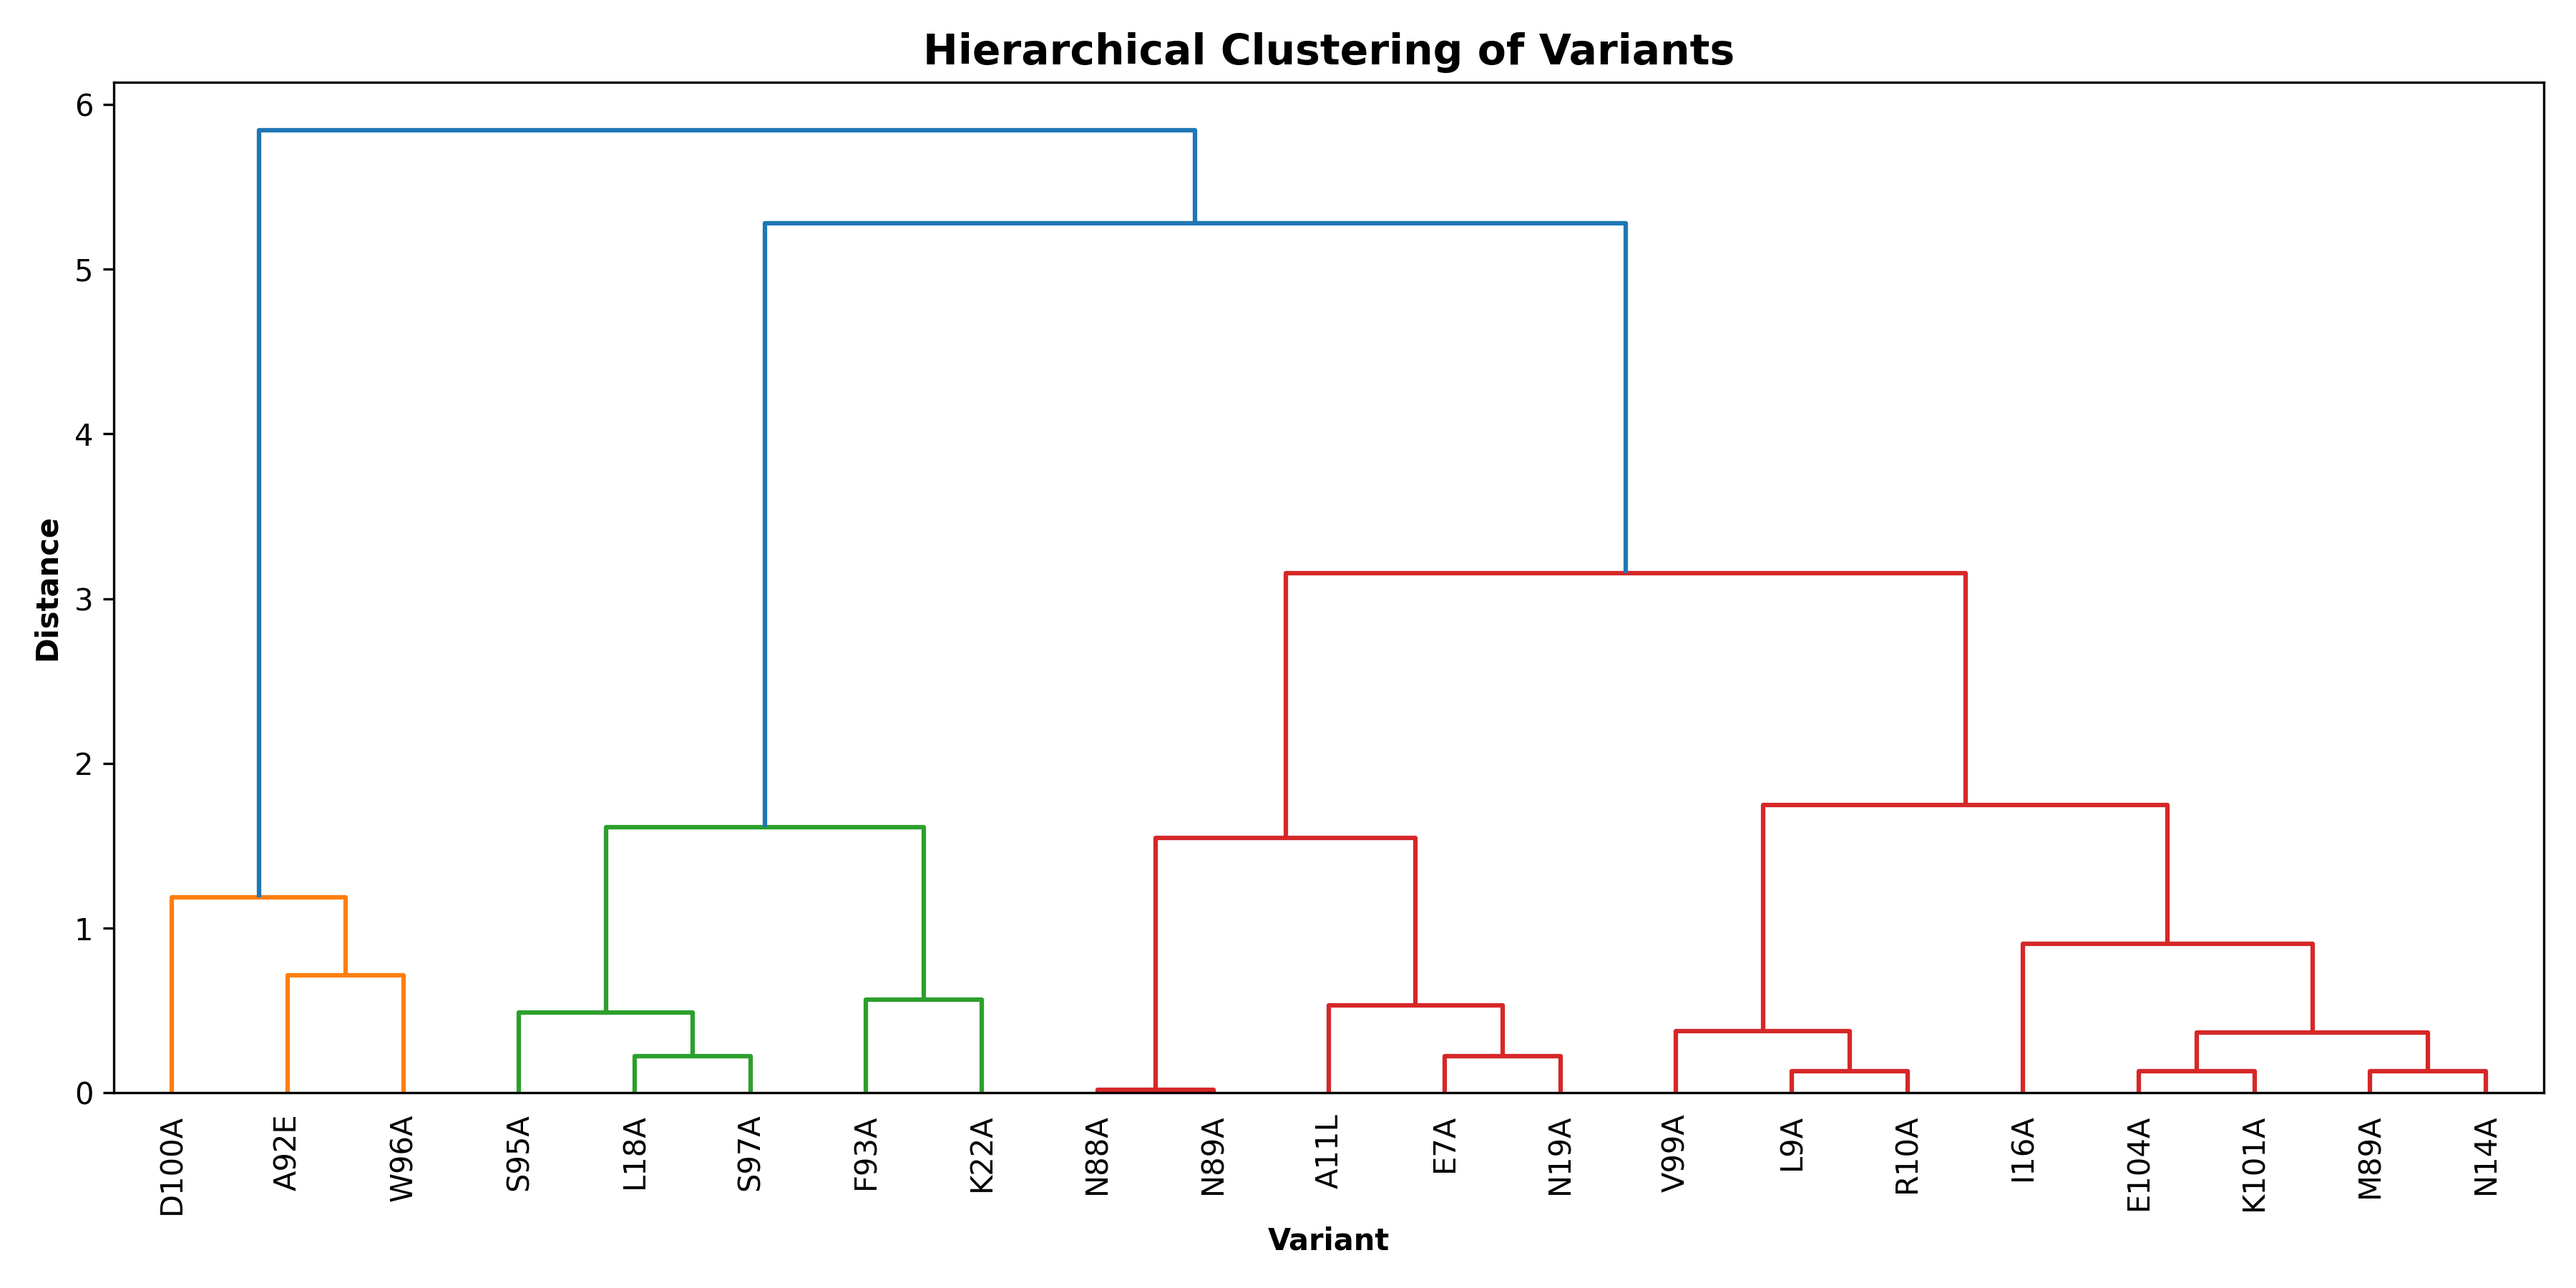
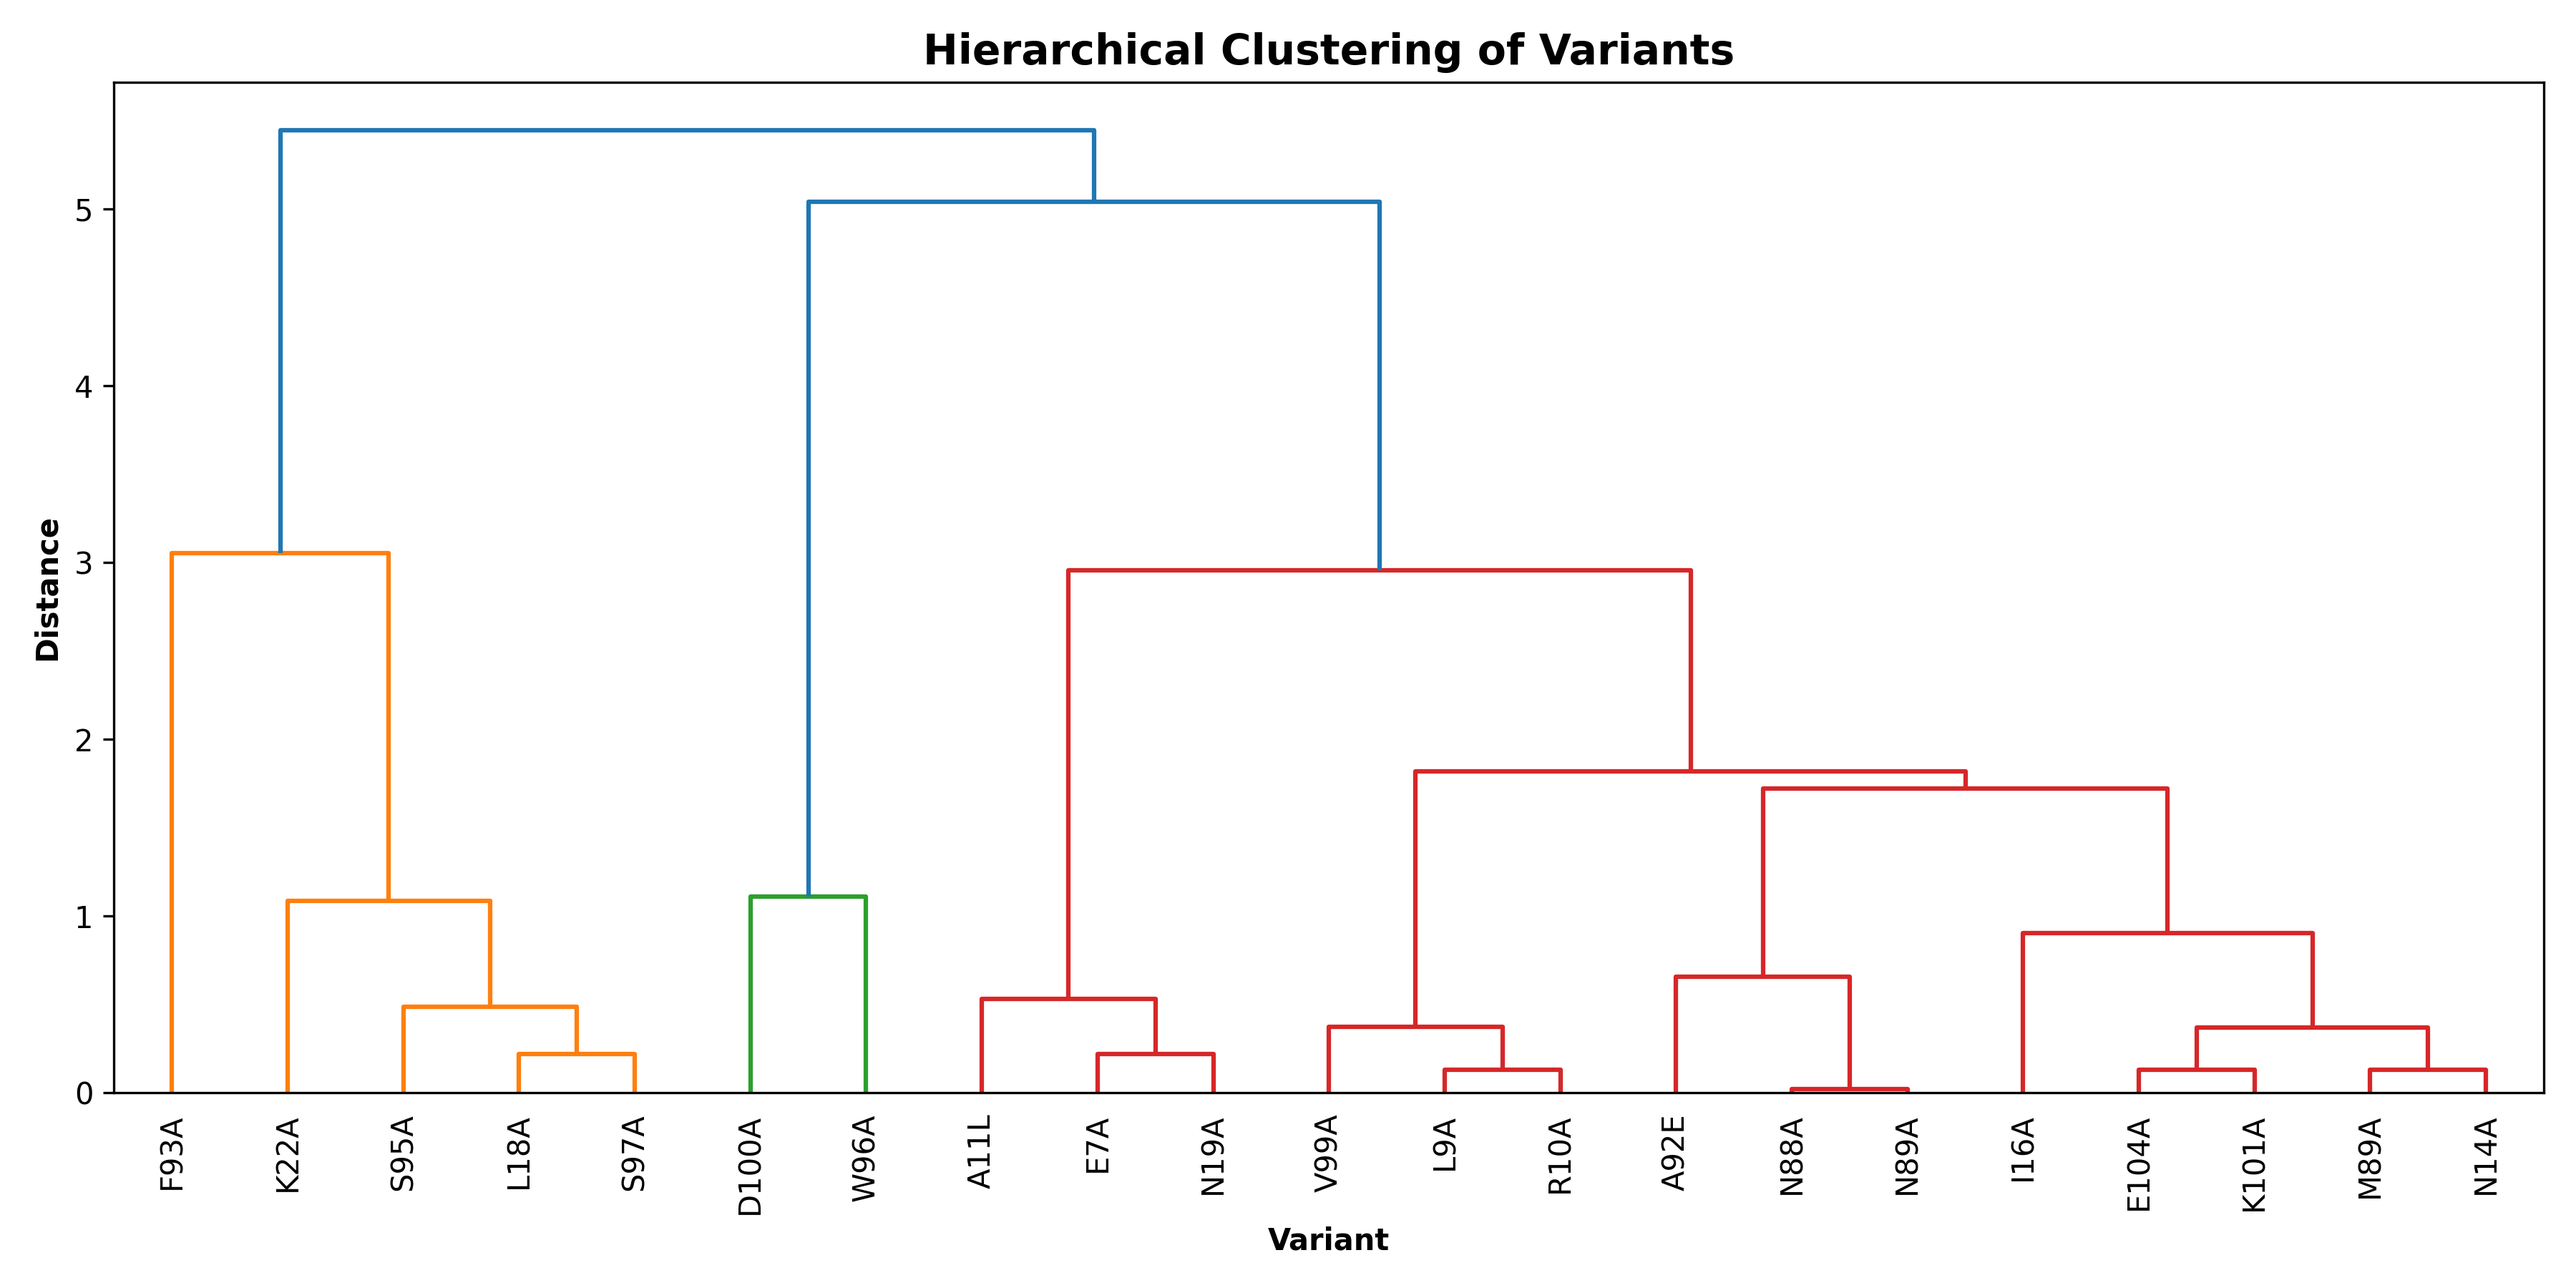
all

diff --git a/analysis/yield.py b/analysis/yield.py
@@ -7,9 +7,9 @@ data = {
     'Catalyst': ['WT', 'W96A', 'E7A', 'A11L', 'L18A', 'N19A', 'K22A', 'N88A', 
                  'M89A', 'A92E', 'F93A', 'S95A', 'S97A', 'D100A', 'V99A', 
                  'I16A', 'N14A', 'L9A', 'R10A', 'K101A', 'E104A', 'na'],
-    'Replicate_a': [17, 5, 17, 17, 16, 17, 14, 14, 13, 7, 14, 14, 17, 4, 19, 13, 16, 18, 16, 12, 11, 0],
-    'Replicate_b': [17, 5, 18, 19, 19, 17, 14, 13, 12, 7, 14, 16, 15, 3, 19, 9, 14, 17, 16, 11, 16, 0],
-    'Replicate_c': [17, 5, 16, 16, 17, 14, 13, 15, 13, 7, 14, 16, 18, 3, 13, 9, 10, 12, 11, 18, 15, 0]
+    'Replicate_a': [17, 5, 17, 17, 16, 17, 14, 14, 13, 14, 7, 14, 17, 4, 19, 13, 16, 18, 16, 12, 11, 0],
+    'Replicate_b': [17, 5, 18, 19, 19, 17, 14, 13, 12, 14, 7, 16, 15, 3, 19, 9, 14, 17, 16, 11, 16, 0],
+    'Replicate_c': [17, 5, 16, 16, 17, 14, 13, 15, 13, 14, 7, 16, 18, 3, 13, 9, 10, 12, 11, 18, 15, 0]
 }
 
 df = pd.DataFrame(data)

diff --git a/analysis/final_plot.py b/analysis/final_plot.py
@@ -22,7 +22,7 @@ current_data = {
                 'D100A', 'V99A', 'I16A', 'N14A', 'L9A', 'R10A',
                 'K101A', 'E104A'],
     'DeltaYield': [-12.0, 0.0, 0.5, -0.5, 0.0, -3.5,
-                   -3.5, -4.5, -10.0, -3.0, -1.5, -0.5,
+                   -3.5, -4.5, -3.0, -10.0, -1.5, -0.5,
                    -13.5, 0.0, -6.5, -4.0, -1.5, -1.0,
                    -3.5, -3.0]
 }

diff --git a/analysis/yield_2.py b/analysis/yield_2.py
@@ -24,7 +24,7 @@ df_curr = pd.DataFrame({
                 'D100A', 'V99A', 'I16A', 'N14A', 'L9A', 'R10A',
                 'K101A', 'E104A'],
     "ΔYield":  [-12.0, 0.0, 0.5, -0.5, 0.0, -3.5,
-                -3.5, -4.5, -10.0, -3.0, -1.5, -0.5,
+                -3.5, -4.5, -3.0, -10.0, -1.5, -0.5,
                 -13.5, 0.0, -6.5, -4.0, -1.5, -1.0,
                 -3.5, -3.0]
 })
